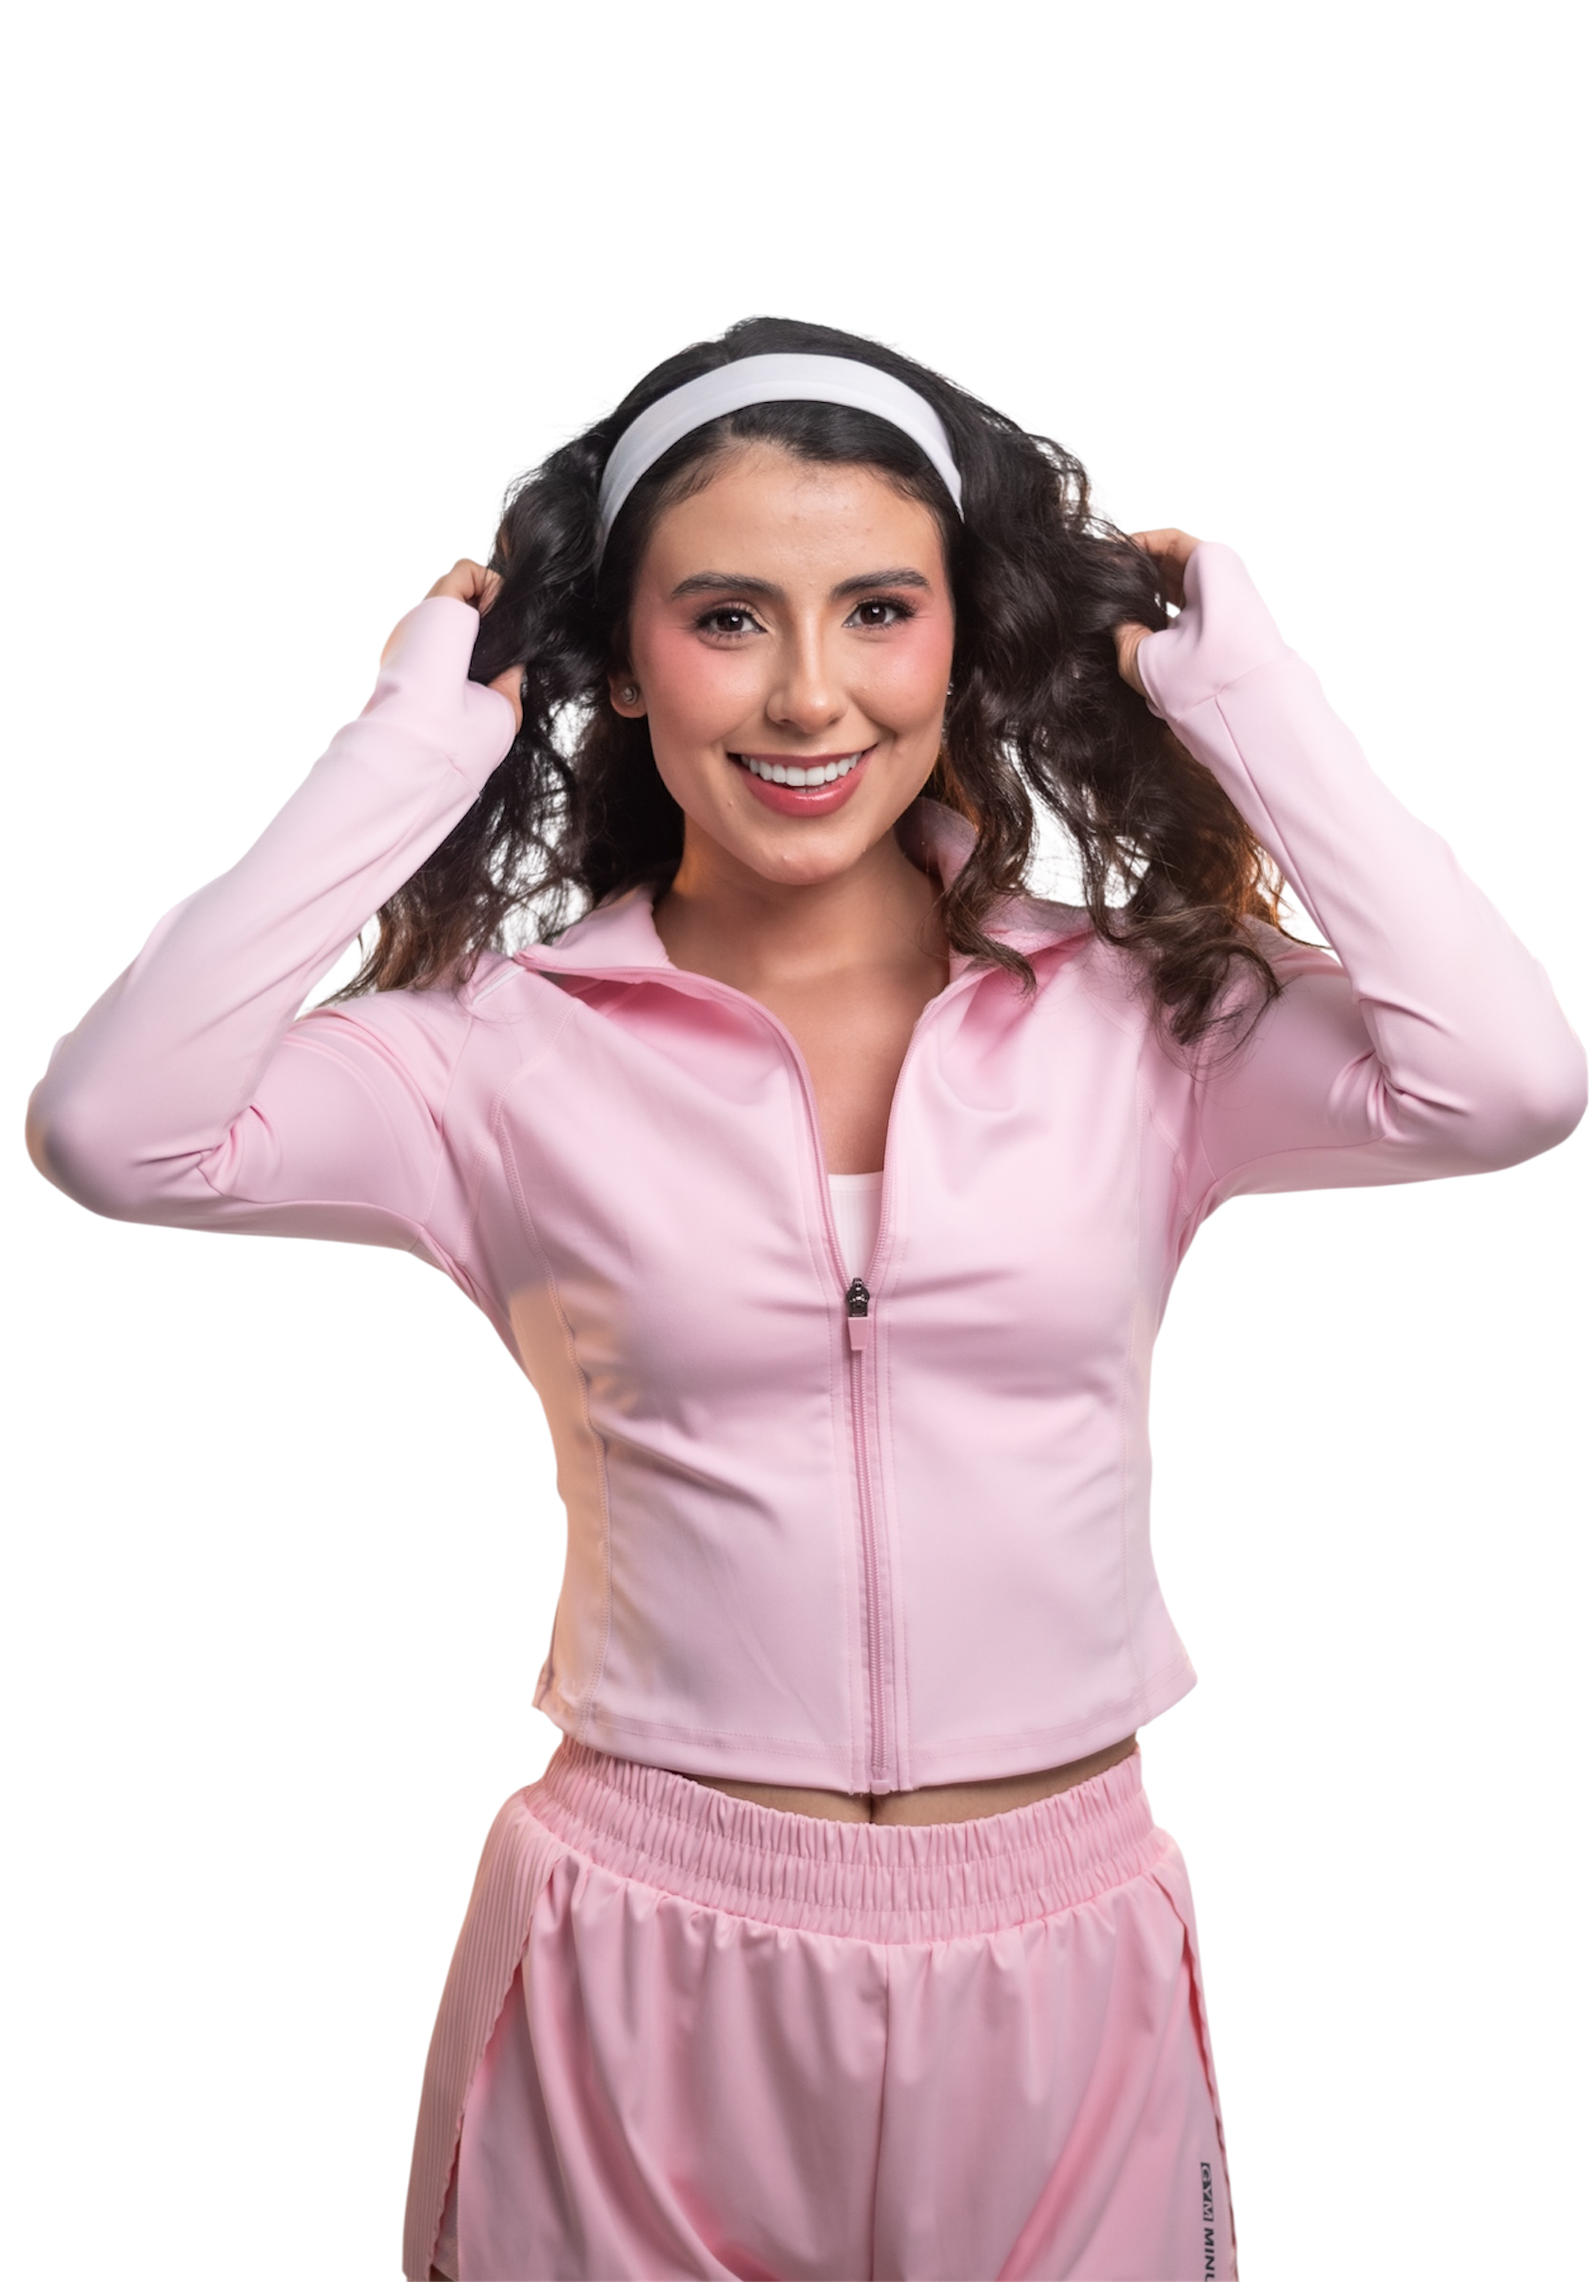
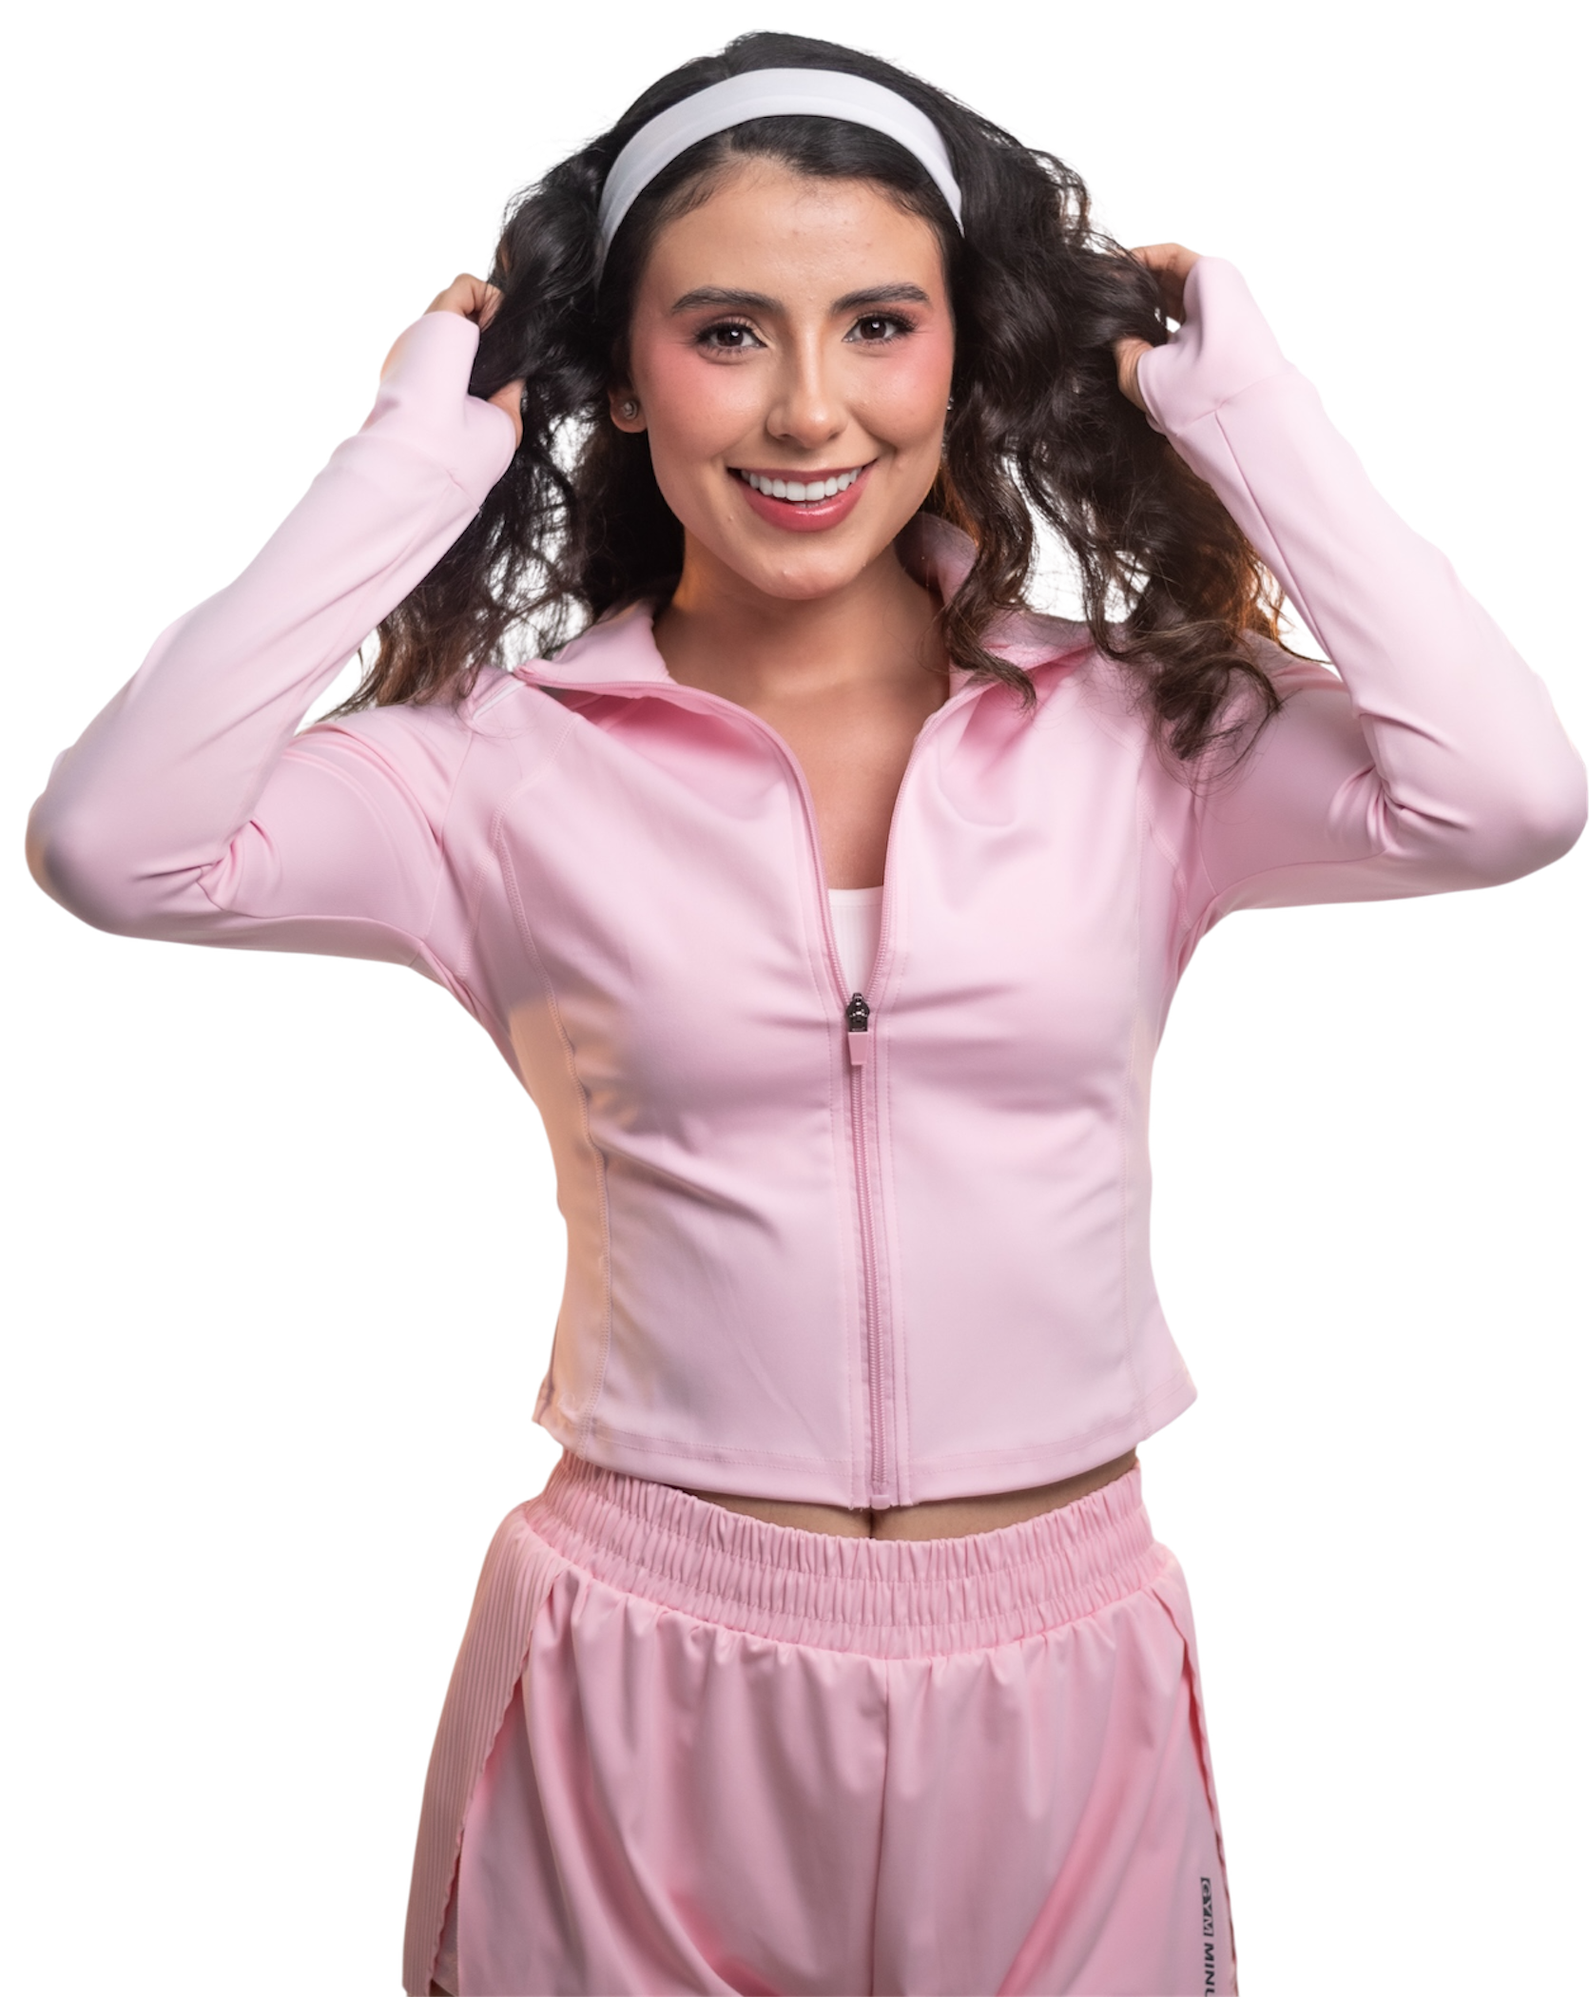
feat(portfolio): :sparkles: Update reviewer portrait image source and enhance CustomerReviews and Home components for improved layout and responsiveness

diff --git a/src/components/views/CustomerReviews.tsx b/src/components/views/CustomerReviews.tsx
@@ -41,7 +41,7 @@ export default function CustomerReviews(props: ICustomerReviewsProps) {
           data-scroll-target="#customers"
           className="w-[15%] lg:w-[40%] h-screen flex flex-col items-center justify-center"
         >
-          <div className="hidden lg:flex w-full lg:h-[25%] items-center justify-between">
+          <div className="relative z-20 hidden lg:flex w-full lg:h-[25%] shrink-0 items-center justify-between">
             <Image
               src={content.flower.src}
               alt={content.flower.alt}
@@ -49,7 +49,7 @@ export default function CustomerReviews(props: ICustomerReviewsProps) {
               height={30}
               className="rotating"
             />
-            <div className="flex flex-col items-center justify-center -space-y-4">
+            <div className="flex flex-col items-center justify-center -space-y-4 px-2">
               {splitTitle.map((title: string, index: number) => (
                 <h2
                   key={index}
@@ -96,15 +96,16 @@ export default function CustomerReviews(props: ICustomerReviewsProps) {
               className="rotating my-5"
             />
           </div>
-          <div className="hidden lg:flex w-full h-[80%] items-center justify-center">
+          <div className="hidden lg:flex w-full h-[70%] items-end justify-center px-2 pb-3">
             <Image
               src={content.image.src}
               alt={content.image.alt}
-              width={255}
-              height={400}
+              width={900}
+              height={1410}
               priority
-              className="show-image grayscale"
-              style={{ width: "auto", height: "auto" }}
+              quality={100}
+              sizes="(min-width: 1024px) min(40vw, 270px), 0px"
+              className="show-image h-auto w-full max-w-[min(100%,270px)]"
             />
           </div>
         </div>

diff --git a/src/components/views/Home.tsx b/src/components/views/Home.tsx
@@ -83,7 +83,7 @@ export default function Home(props: IHomeProps) {
               sizes="(max-width: 640px) 96vw, (max-width: 1024px) 88vw, (max-width: 1536px) 75vw, 65vw"
               priority
               quality={100}
-              className="main-image blur-in origin-bottom object-contain object-bottom lg:scale-[1.25]"
+              className="main-image blur-in origin-bottom object-contain object-bottom lg:scale-[1]"
             />
           </div>
         </div>
